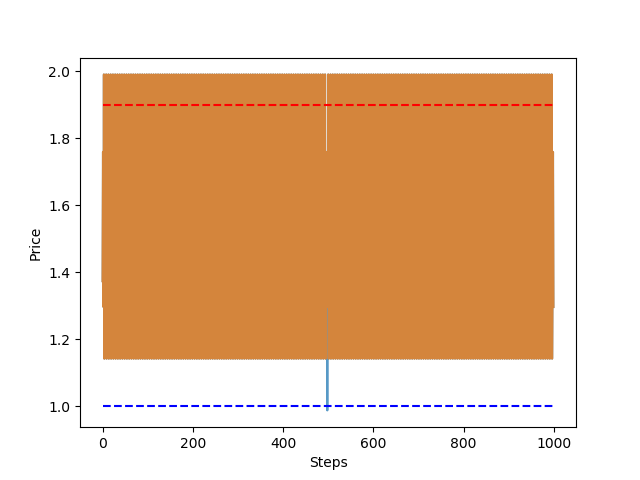
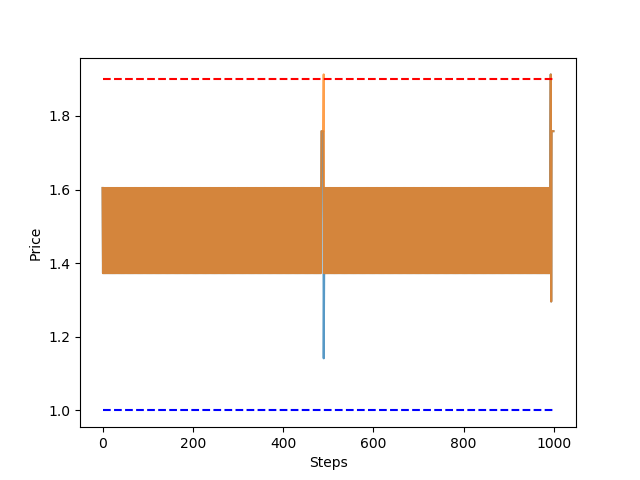
gamma -> delta

diff --git a/agents/q_learner.py b/agents/q_learner.py
@@ -6,14 +6,14 @@ from gym_bertrandcompetition.envs.bertrand_competition_discrete import BertrandC
 
 class Q_Learner():
 
-    def __init__(self, env, num_agents=2, m=15, alpha=0.05, beta=0.2, gamma=0.99, epochs=50):
+    def __init__(self, env, num_agents=2, m=15, alpha=0.05, beta=0.2, delta=0.99, epochs=50):
 
         self.env = env
         self.num_agents = num_agents
         self.m = m
         self.alpha = alpha
         self.beta = beta
-        self.gamma = gamma
+        self.delta = delta
         self.epochs = epochs
 
         self.players = [ 'agent_' + str(i) for i in range(num_agents)]
@@ -65,7 +65,7 @@ class Q_Learner():
                     last_values[agent] = q_table[agent][observation][actions_dict[self.players[agent]]]
                     Q_maxes[agent] = np.max(q_table[agent][next_observation])
                 
-                    q_table[agent][observation][actions_dict[self.players[agent]]] = ((1 - self.alpha) * last_values[agent]) + (self.alpha * (reward[self.players[agent]] + self.gamma * Q_maxes[agent]))
+                    q_table[agent][observation][actions_dict[self.players[agent]]] = ((1 - self.alpha) * last_values[agent]) + (self.alpha * (reward[self.players[agent]] + self.delta * Q_maxes[agent]))
 
                 reward_list.append(reward[self.players[0]])
 

diff --git a/gym_bertrand_test.py b/gym_bertrand_test.py
@@ -19,7 +19,7 @@ from ray.tune.logger import pretty_print
 # CHANGE PARAMETERS FOR TESTING
 # Parameters
 num_agents = 2
-k = 0
+k = 1
 m = 15
 max_steps = 500
 convergence = 5
@@ -69,9 +69,9 @@ else:
     # Hyperparameters
     alpha = 0.05
     beta = 0.2
-    gamma = 0.99
+    delta = 0.99
 
-    q_learner = Q_Learner(env, num_agents=num_agents, m=m, alpha=alpha, beta=beta, gamma=gamma, epochs=epochs)
+    q_learner = Q_Learner(env, num_agents=num_agents, m=m, alpha=alpha, beta=beta, delta=delta, epochs=epochs)
 
     q_learner.train()
     q_learner.plot(last_n=1000)
